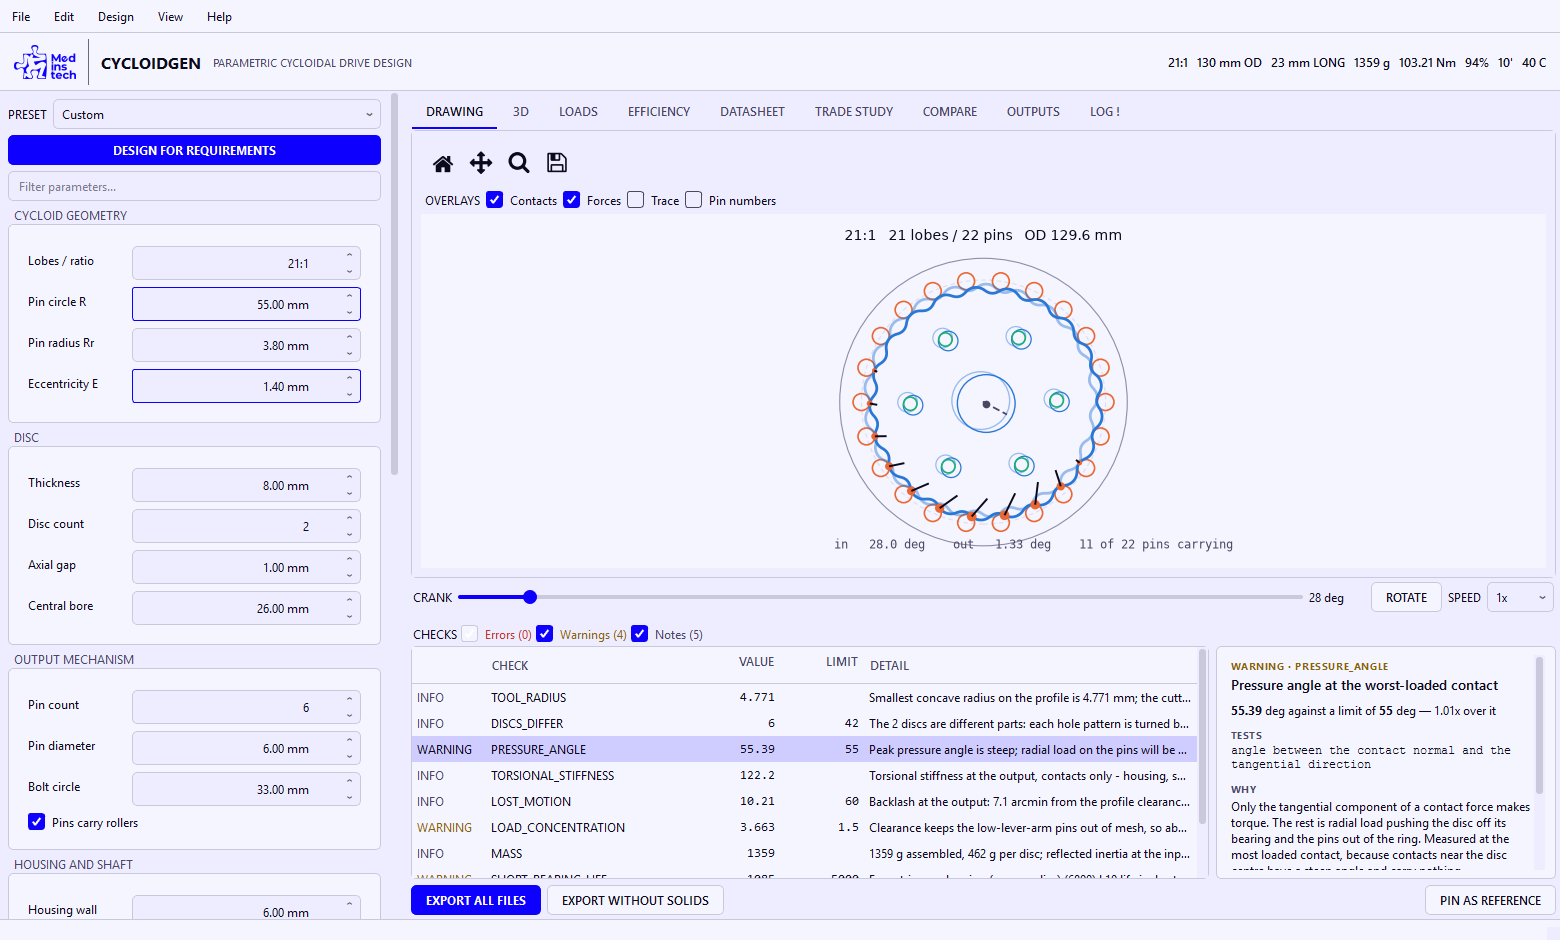
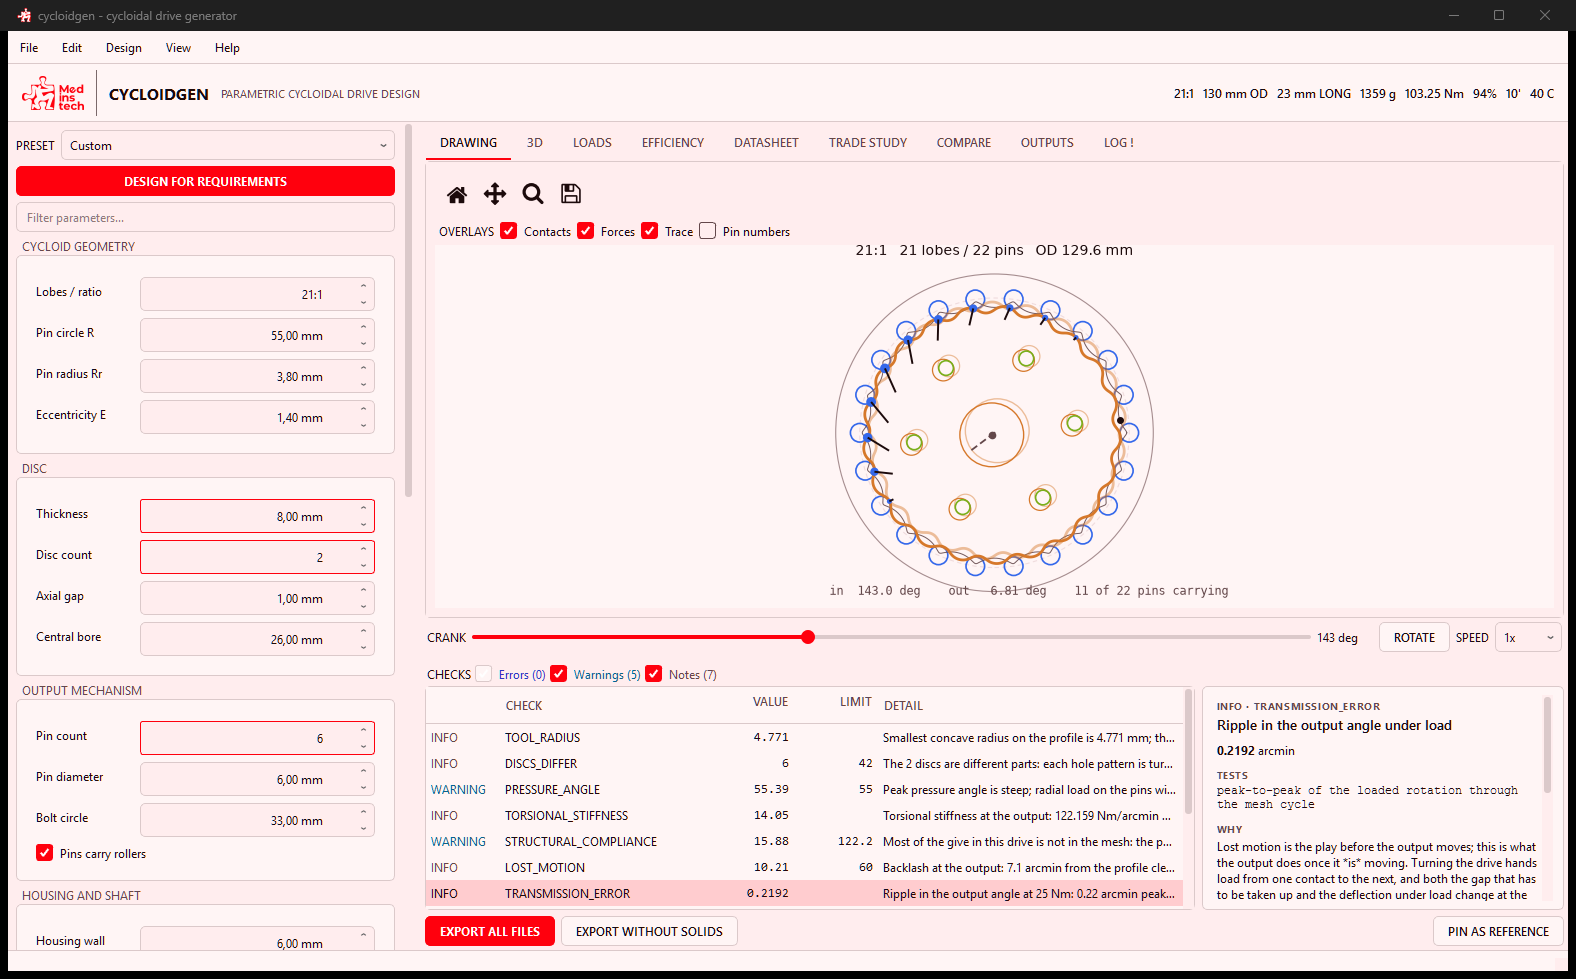
Refresh the figures, slow the animation, keep the roadmap out
The GIF was showing seven input turns in 3.4 seconds - over two input
revolutions a second, thirty degrees of crank a frame. The eccentric was
a blur and the mesh, which is the only reason the picture exists, was not
readable. Twenty degrees a frame over a nine-second loop is slow enough
to follow one pin through its contact. It costs 300 kB, which is the
right trade for the one figure most visitors will actually watch.

The screenshots were three releases out of date - no transmission error,
no structural compliance, no pin position, and a parameter panel without
the tolerance field. Retaking them needed a tool, because the old ones
were taken by hand and the method was not kept: tools/make_screenshots.py
opens the real window, loads the hero design, turns the overlays on,
selects a check, sets the camera and photographs it through PrintWindow.

It cannot be done headless, twice over. Offscreen Qt has no fonts and
renders every label as tofu. And the 3D viewport is a native OpenGL
surface that QWidget.grab composites around rather than through, leaving
a black hole where the gearbox was. PW_RENDERFULLCONTENT is what gets
both, and unlike a screen grab it does not photograph whatever window
happens to be on top.

The roadmap is now untracked and gitignored - it stays on disk here and
out of the published repository. Everything that pointed at it now says
the thing directly instead: CONTRIBUTING carries the settled questions
[…]

Changed region(s): [[0.0, 0.0, 1.0, 1.0]]

diff --git a/tools/make_screenshots.py b/tools/make_screenshots.py
@@ -1,0 +1,201 @@
+"""Recapture the application screenshots the README embeds.
+
+    python tools/make_screenshots.py
+
+Unlike `docs/make_figures.py`, which renders through matplotlib and runs
+anywhere, this one needs a **real desktop session**.  It opens the actual
+window, drives it, and photographs it.  Two reasons it cannot be done headless:
+
+* The offscreen Qt platform has no fonts.  Every label comes out as tofu - the
+  little rectangles a font renderer draws when it has no glyph - so an offscreen
+  screenshot is a picture of the layout and none of the words.
+* The 3D tab's viewport is a native OpenGL surface.  It is not part of Qt's
+  backing store, so `QWidget.grab` composites the widget tree around it and
+  leaves a black hole where the gearbox was.
+
+So the window is grabbed through `PrintWindow` with `PW_RENDERFULLCONTENT`,
+which asks Windows for the window's own rendering including native children,
+and does not care what is stacked on top of it.  Anything else - screen
+grabs, `QScreen.grabWindow` - photographs whatever pixels happen to be there,
+including this terminal if it is in the way.
+
+The window will appear on your screen for a few seconds.  That is the point.
+"""
+from __future__ import annotations
+
+import ctypes
+import os
+import sys
+from ctypes import wintypes
+from pathlib import Path
+
+ROOT = Path(__file__).resolve().parent.parent
+DOCS = ROOT / "docs"
+
+# Before PySide6 is imported anywhere: the app's own modules pick the platform
+# up at import time, and the whole point here is *not* to be offscreen.
+os.environ.pop("QT_QPA_PLATFORM", None)
+
+from PIL import Image  # noqa: E402
+from PySide6.QtCore import QEventLoop, QTimer  # noqa: E402
+from PySide6.QtWidgets import QApplication  # noqa: E402
+
+from cycloidgen.core.spec import GearSpec, Process, preset  # noqa: E402
+from cycloidgen.ui.main_window import MainWindow  # noqa: E402
+
+#: Matches the committed screenshots, so the README's images stay one size.
+WINDOW = (1560, 940)
+
+
+def hero() -> GearSpec:
+    """A machined steel drive - a design worth photographing, not the default.
+
+    The same one `docs/make_figures.py` uses for the trade study, so the README
+    is showing one gearbox rather than four.
+    """
+    spec = preset(21)
+    spec.process = Process.CNC
+    spec.apply_process_defaults()
+    spec.disc_material = "Steel 4140 (hardened)"
+    spec.pin_material = "Bearing steel 100Cr6"
+    spec.housing_material = "Aluminium 7075-T6"
+    spec.ring_pins_are_rollers = True
+    spec.output_pins_are_rollers = True
+    spec.output_torque_Nm = 25.0
+    return spec
+
+
+def settle(app: QApplication, ms: int = 400) -> None:
+    """Run the event loop for a while, so paints and workers actually happen."""
+    loop = QEventLoop()
+    QTimer.singleShot(ms, loop.quit)
+    loop.exec()
+    app.processEvents()
+
+
+def wait_for_analysis(app: QApplication, window: MainWindow,
+                      timeout_ms: int = 30_000) -> None:
+    """Block until the off-thread analysis has landed, or give up loudly.
+
+    The window runs its analysis in a worker and accepts the result only if its
+    generation is still current, so photographing it too early gets a datasheet
+    full of the *previous* design.
+    """
+    waited = 0
+    while window.analysis is None and waited < timeout_ms:
+        settle(app, 100)
+        waited += 100
+    if window.analysis is None:
+        raise SystemExit("the analysis never finished; nothing worth capturing")
+
+
+def select_finding(window: MainWindow, code: str) -> bool:
+    """Select a check by code, so the explanation panel has something in it."""
+    tree = window.findings
+    for i in range(tree.topLevelItemCount()):
+        item = tree.topLevelItem(i)
+        if code in (item.text(c) for c in range(tree.columnCount())):
+            tree.setCurrentItem(item)
+            return True
+    return False
+
+
+def capture(window: MainWindow, path: Path) -> None:
+    """Photograph the window through PrintWindow, including native children."""
+    hwnd = int(window.winId())
+    user32, gdi32 = ctypes.windll.user32, ctypes.windll.gdi32
+
+    rect = wintypes.RECT()
+    user32.GetWindowRect(hwnd, ctypes.byref(rect))
+    width, height = rect.right - rect.left, rect.bottom - rect.top
+
+    window_dc = user32.GetWindowDC(hwnd)
+    memory_dc = gdi32.CreateCompatibleDC(window_dc)
+    bitmap = gdi32.CreateCompatibleBitmap(window_dc, width, height)
+    gdi32.SelectObject(memory_dc, bitmap)
+
+    # 2 is PW_RENDERFULLCONTENT, which is what pulls the OpenGL viewport in.
+    if not user32.PrintWindow(hwnd, memory_dc, 2):
+        raise SystemExit("PrintWindow refused; is the window minimised?")
+
+    class BITMAPINFOHEADER(ctypes.Structure):
+        _fields_ = [("biSize", wintypes.DWORD), ("biWidth", wintypes.LONG),
+                    ("biHeight", wintypes.LONG), ("biPlanes", wintypes.WORD),
+                    ("biBitCount", wintypes.WORD), ("biCompression", wintypes.DWORD),
+                    ("biSizeImage", wintypes.DWORD),
+                    ("biXPelsPerMeter", wintypes.LONG),
+                    ("biYPelsPerMeter", wintypes.LONG),
+                    ("biClrUsed", wintypes.DWORD), ("biClrImportant", wintypes.DWORD)]
+
+    header = BITMAPINFOHEADER()
+    header.biSize = ctypes.sizeof(BITMAPINFOHEADER)
+    header.biWidth, header.biHeight = width, -height      # negative: top-down
+    header.biPlanes, header.biBitCount = 1, 32
+    buffer = ctypes.create_string_buffer(width * height * 4)
+    gdi32.GetDIBits(memory_dc, bitmap, 0, height, buffer, ctypes.byref(header), 0)
+
+    gdi32.DeleteObject(bitmap)
+    gdi32.DeleteDC(memory_dc)
+    user32.ReleaseDC(hwnd, window_dc)
+
+    # BGRA off the wire, and the alpha channel is meaningless for a screenshot
+    image = Image.frombuffer("RGBA", (width, height), buffer, "raw", "BGRA", 0, 1)
+    b, g, r, _a = image.split()
+    Image.merge("RGB", (r, g, b)).save(path)
+    print(f"  {path.name}  {width}x{height}  {path.stat().st_size / 1024:.0f} kB")
+
+
+def main() -> int:
+    if sys.platform != "win32":
+        raise SystemExit("PrintWindow is a Win32 call; run this one on Windows")
+
+    app = QApplication.instance() or QApplication(sys.argv)
+    window = MainWindow()
+    window.resize(*WINDOW)
+    window.show()
+    window.raise_()
+    window.activateWindow()
+    settle(app, 600)
+
+    window._replace_spec(hero(), record=False)
+    wait_for_analysis(app, window)
+    settle(app, 600)
+
+    print("writing screenshots:")
+
+    # The drawing tab, with a check selected so the explanation panel is doing
+    # the thing the README says it does.
+    window.tabs.setCurrentIndex(window._drawing_tab)
+
+    # Overlays on: they are what makes the README's claim true. Without them the
+    # hero image is an outline, and the caption underneath it promises a
+    # simulation - contact points sized by the load they carry, forces to scale,
+    # and the path a rim point travels over a full output revolution.
+    for key in ("contacts", "forces", "trace"):
+        window._overlay_boxes[key].setChecked(True)
+
+    for code in ("TRANSMISSION_ERROR", "STRUCTURAL_COMPLIANCE", "PRESSURE_ANGLE"):
+        if select_finding(window, code):
+            break
+    settle(app, 900)
+    capture(window, DOCS / "app-drawing.png")
+
+    # The 3D tab needs longer: the first paint builds the mesh and hands it to
+    # the card, and photographing during that gets an empty viewport.
+    window.tabs.setCurrentIndex(window._solid_tab)
+    settle(app, 1500)
+    # The panel restores whatever camera it was left on, which on this machine
+    # may be straight down the axis - a picture of a circle. Ask for the
+    # isometric it opens on from clean, and refit, so the screenshot shows the
+    # stack, the shaft and the depth rather than a disc.
+    window._view3d.view.set_standard_view("iso")
+    window._view3d.view.fit()
+    settle(app, 1500)
+    capture(window, DOCS / "app-3d.png")
+
+    window.close()
+    return 0
+
+
+if __name__ == "__main__":
+    raise SystemExit(main())

diff --git a/docs/make_figures.py b/docs/make_figures.py
@@ -76,11 +76,17 @@ def main() -> int:
     _save(plots.sweep_figure(result, Figure(figsize=(9.0, 6.2), dpi=110)),
           "tradestudy.png")
 
-    # The drawing, turning.  Smaller than the exported default and lighter on
-    # frames, because this one is checked into the repository and served on
-    # every view of the README - the point is to show the mesh working, not to
-    # be the highest-fidelity copy of it.  A 21:1 closes exactly at seven turns.
-    plan = animation.plan(spec, pixels=380, frames=84)
+    # The drawing, turning.  Smaller than the exported default, because this one
+    # is checked into the repository and served on every view of the README.
+    #
+    # Paced rather than defaulted.  A 21:1 closes exactly at seven turns, and
+    # seven turns at the export defaults is over two input revolutions a second:
+    # the eccentric becomes a blur and the mesh - the thing the picture exists to
+    # show - is not readable at all.  Twenty degrees of crank per frame and a
+    # nine-second loop is slow enough to follow one pin through its contact.  It
+    # costs about 300 kB over the fast version, which is the right trade for the
+    # one figure most visitors will actually watch.
+    plan = animation.plan(spec, pixels=360, frames=126, fps=14)
     print(f"  motion.gif  {plan.describe()}")
     path = animation.write_gif(spec, DOCS / "motion.gif", animation=plan,
                                theme="light")

diff --git a/tests/test_explain.py b/tests/test_explain.py
@@ -77,14 +77,17 @@ def test_the_readme_lists_every_check_the_app_can_raise():
     fails, and a code that only the README believes in fails too.
     """
     readme = (ROOT.parent / "README.md").read_text(encoding="utf-8")
-    listed = set(re.findall(r"`([A-Z][A-Z0-9_]{3,})`", readme))
+    # Only the Checks section, not the whole file.  Elsewhere the README quotes
+    # environment variables and Win32 constants, which are shaped exactly like
+    # check codes; scanning everything would mean an exception list that grows
+    # every time the prose mentions one.
+    section = re.search(r"^## Checks$(.*?)^## ", readme, re.M | re.S)
+    assert section, "the README no longer has a Checks section"
+    listed = set(re.findall(r"`([A-Z][A-Z0-9_]{3,})`", section.group(1)))
     codes = set(EXPLANATIONS)
     assert not codes - listed, f"not in the README: {sorted(codes - listed)}"
-    # anything else in backticks and shouting is an env var or a constant, and
-    # those are named here so the test can tell them from a stale check code
-    known_shouting = {"CYCLOIDGEN_SETTINGS", "README"}
-    assert not listed - codes - known_shouting, \
-        f"the README names checks that do not exist: {sorted(listed - codes - known_shouting)}"
+    assert not listed - codes, \
+        f"the README names checks that do not exist: {sorted(listed - codes)}"
 
 
 def test_every_explained_check_can_also_point_at_its_parameters():

diff --git a/README.md b/README.md
@@ -550,6 +550,20 @@ so they cannot drift from what it actually draws:
 .venv\Scripts\python docs\make_figures.py
 ```
 
+The two screenshots of the window are taken by a second script, and it needs a
+real desktop session rather than the offscreen platform the tests use — twice
+over. Offscreen Qt has no fonts, so every label renders as tofu; and the 3D
+tab's viewport is a native OpenGL surface that `QWidget.grab` composites *around*,
+leaving a black hole where the gearbox was. So the window is opened, driven —
+hero design, overlays on, a check selected, the camera set — and photographed
+through `PrintWindow` with `PW_RENDERFULLCONTENT`, which asks Windows for the
+window's own rendering including native children and does not care what is
+stacked on top of it:
+
+```powershell
+.venv\Scripts\python tools\make_screenshots.py
+```
+
 ## Performance
 
 A full re-analysis is about 110 ms — every check, every load, the stiffness
@@ -645,19 +659,31 @@ bundle to a fraction of the size.
 
 ## Where it is going
 
-See [ROADMAP.md](ROADMAP.md). The item at the top — calibrating the model
-against measured hardware — is worth more than everything under it, and is
-listed first for that reason.
+One thing is worth more than everything else on the list: **calibration against
+real hardware**. Every number here is a first-principles estimate with a stated
+model and stated limits. That is honest, and it is also the ceiling — the moment
+there is a table of predicted versus measured, this stops being a calculator and
+becomes a calibrated instrument.
+
+After that, in rough order: fatigue rather than only static strength, since the
+disc web and the pins see a fully reversed cycle every input revolution; a
+lubrication regime, because one fixed friction coefficient is carrying
+efficiency, PV and temperature between them; bearing life under combined load
+and misalignment; and more kinds of drive — compound and multi-stage, RV-type,
+a pinwheel output. On the output side, dimensioned drawing sheets with
+tolerances and a title block, which is what a shop actually wants; 3MF with
+per-part colour; STEP AP242 with PMI. [Open an issue](../../issues) if one of
+those is what stands between you and using it — that moves it up the list.
 
 ## Contributing
 
-[CONTRIBUTING.md](CONTRIBUTING.md) covers setup, the house style, and what a
-change looks like here. The short version: numbers are verified rather than
-asserted, comments say *why*, and `ruff format` is deliberately not part of the
-build.
+[CONTRIBUTING.md](CONTRIBUTING.md) covers setup, the house style, the settled
+questions, and what a change looks like here. The short version: numbers are
+verified rather than asserted, comments say *why*, and `ruff format` is
+deliberately not part of the build.
 
 The most valuable contribution needs no code at all — **build one of these and
-measure it**. That is the item at the top of the roadmap.
+measure it**.
 
 Also: [CHANGELOG.md](CHANGELOG.md) · [RELEASING.md](RELEASING.md) ·
 [SECURITY.md](SECURITY.md) · [CODE_OF_CONDUCT.md](CODE_OF_CONDUCT.md)

diff --git a/CONTRIBUTING.md b/CONTRIBUTING.md
@@ -5,16 +5,30 @@ Thanks for looking. This is a small, opinionated tool and the bar for changes is
 
 ## Before you start
 
-Read [ROADMAP.md](ROADMAP.md), especially **Deliberately not doing**. FEA,
-involute gears, `ruff format` and rounded corners are all settled questions, and
-a pull request that reopens one will get a polite no. Everything else is open.
-
-The single most valuable contribution is at the top of the roadmap and needs no
-code at all: **build one of these and measure it**. Lost motion, torsional
-stiffness, efficiency, running temperature, failure torque. Every number this
-tool produces is a first-principles estimate with a stated model, and a table of
-predicted-versus-measured is worth more than any feature below it. Open an issue
+The single most valuable contribution needs no code at all: **build one of these
+and measure it**. Lost motion, torsional stiffness, efficiency, running
+temperature, failure torque. Every number this tool produces is a
+first-principles estimate with a stated model, and a table of
+predicted-versus-measured is worth more than any feature anyone could add. It is
+the difference between a calculator and a calibrated instrument. Open an issue
 with what you built and what you measured.
+
+### Settled questions
+
+These are decided, and a pull request that reopens one will get a polite no.
+Everything else is open.
+
+- **FEA.** Out of scope. The point of this tool is to get you to a good design
+  in seconds so that FEA has something worth meshing.
+- **Involute gears.** Well served elsewhere.
+- **`ruff format`.** The repository has a hand-aligned style — continuation
+  lines under their openers, tables laid out to be read as tables — and the
+  formatter would rewrite 46 files to remove it. Lint hunts bug shapes; a
+  formatter enforces a preference. The first is worth a CI job, the second is
+  worth a discussion first.
+- **Shadows, gradients and depth effects.** Structure is *drawn* — a hairline, a
+  fill, a border — rather than implied by a light source that is not in the
+  room.
 
 ## Getting set up
 

diff --git a/SECURITY.md b/SECURITY.md
@@ -42,7 +42,7 @@ surface, and it is mostly *untrusted input*:
   prototype is the user's job. That is a stated limitation, not a vulnerability.
 - **Denial of service by asking for something enormous.** A 200-lobe drive at a
   micron chord tolerance will take a while. That is arithmetic.
-- **The SmartScreen warning on the unsigned Windows build.** Known, and on the
-  roadmap.
+- **The SmartScreen warning on the unsigned Windows build.** Known, and waiting
+  on a code-signing certificate rather than on a code change.
 
 [issues]: https://github.com/medinstech/cycloidgen/issues
